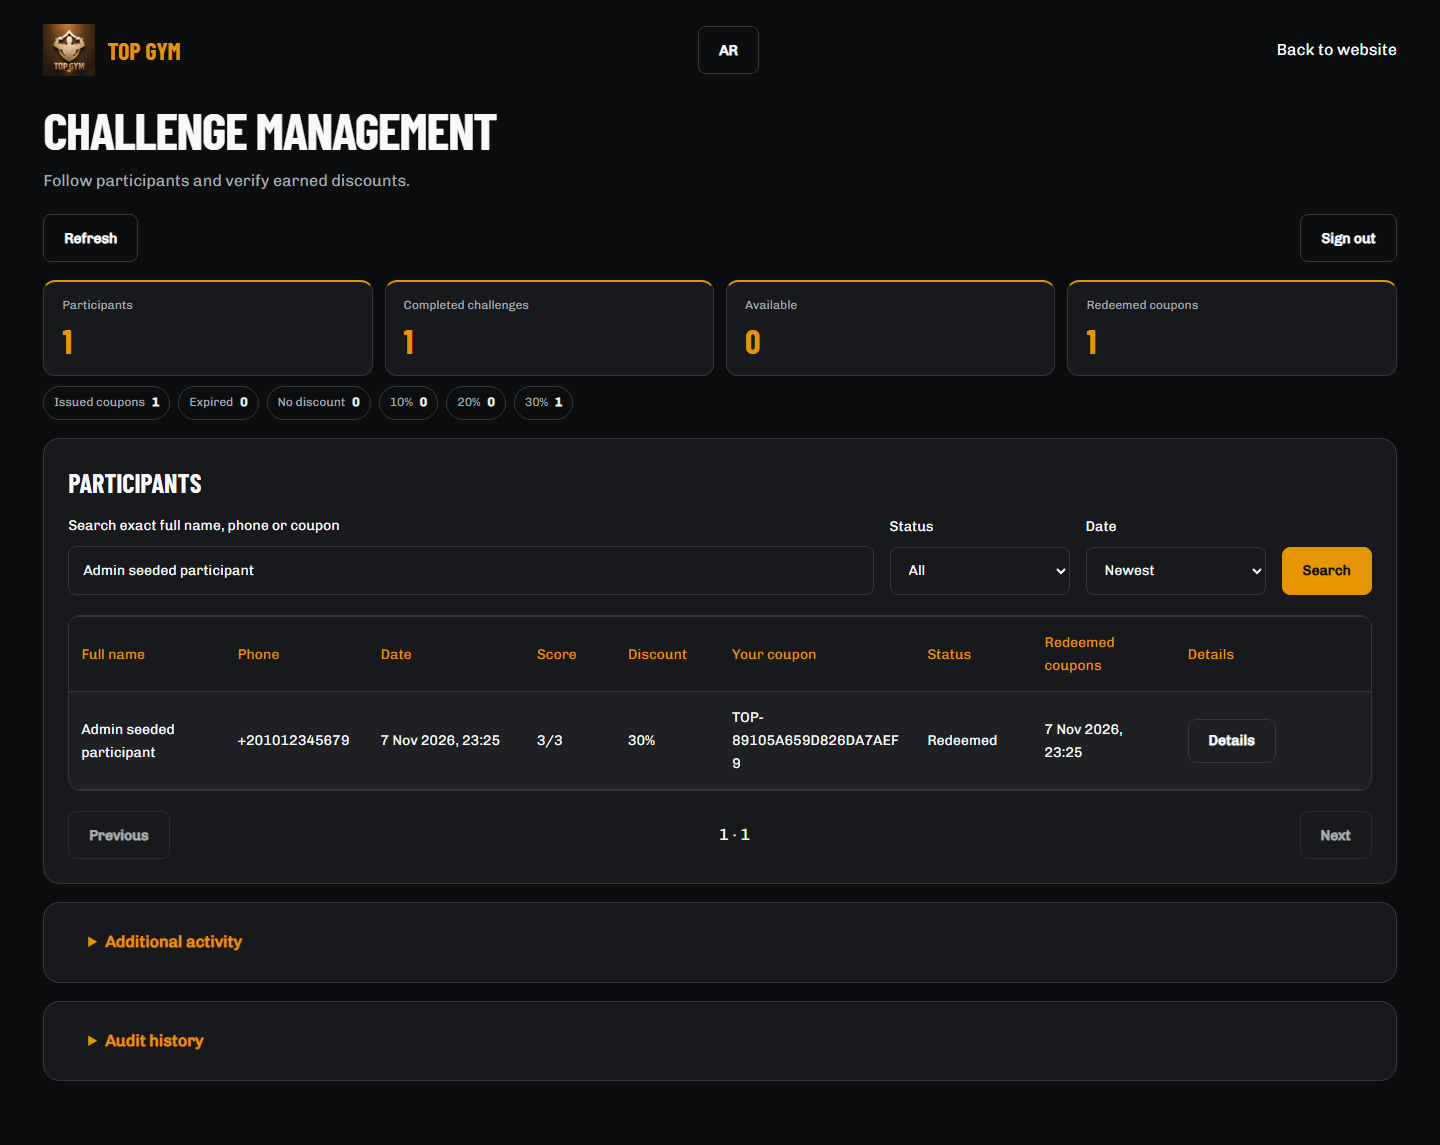
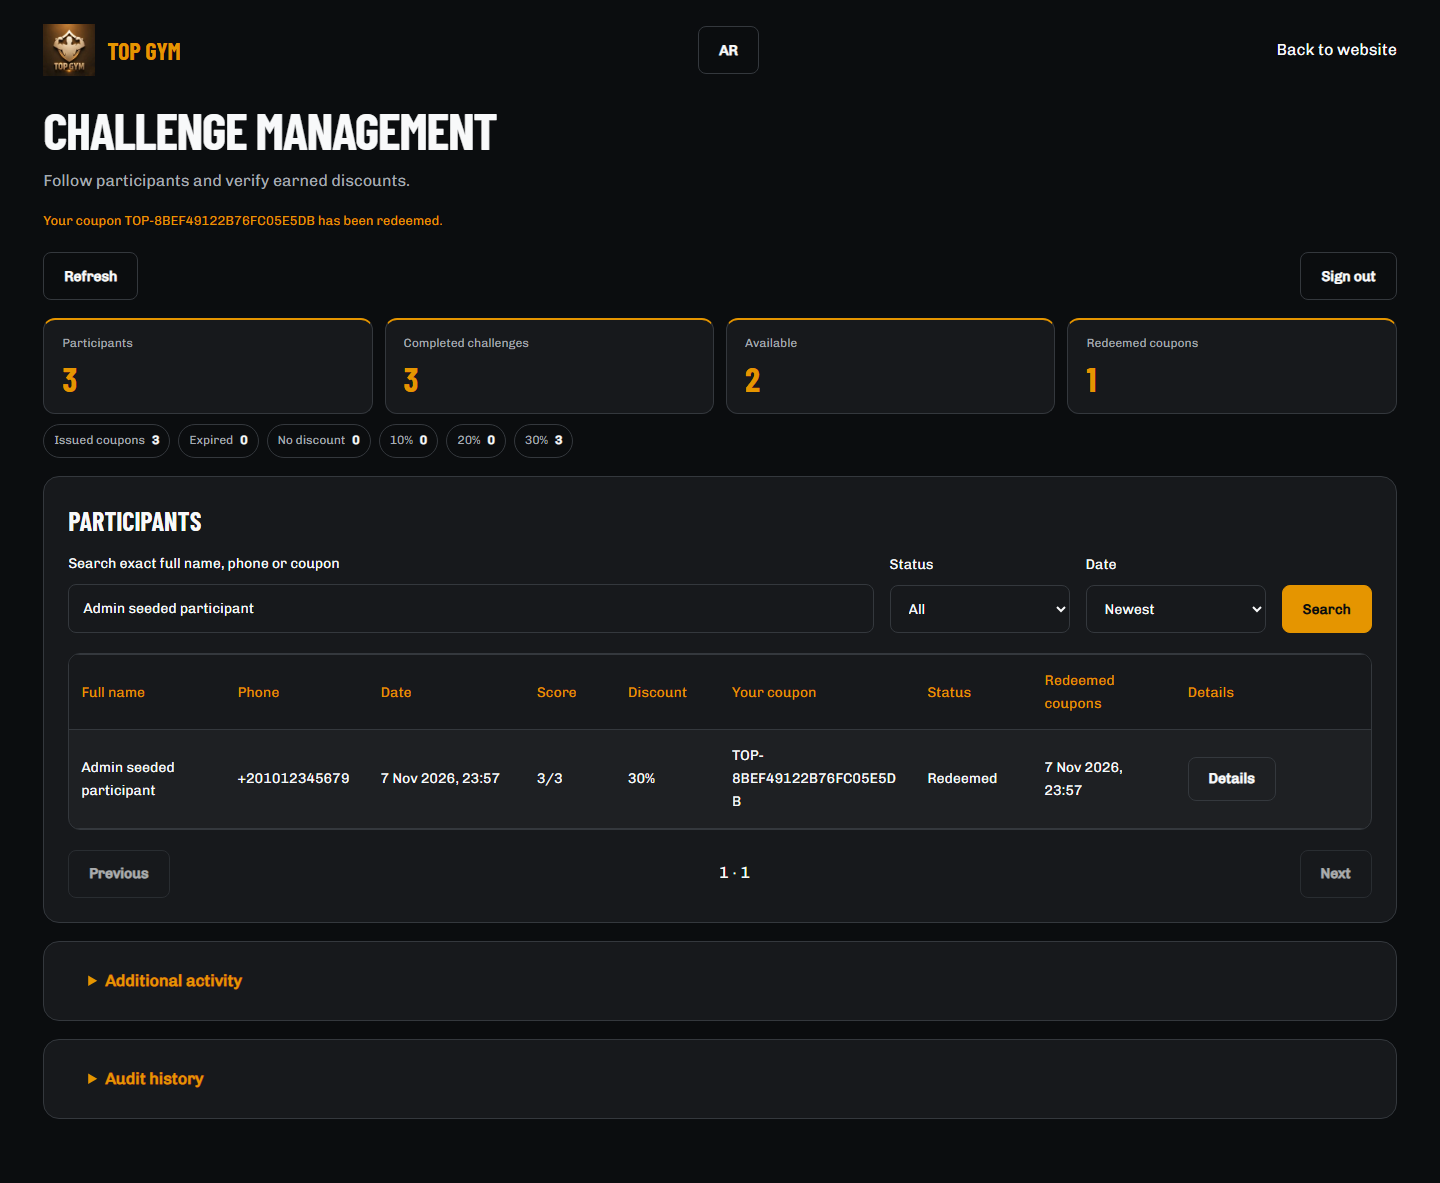
feat(challenge): add coupon copy and WhatsApp subscription action

diff --git a/src/scripts/challenge.ts b/src/scripts/challenge.ts
@@ -4,6 +4,8 @@ import { motion } from '../config/motion';
 import { challengeApi, ApiError } from './challenge-api';
 import { challengeAttribution, challengeEvent } from './challenge-attribution';
 import { localizedChallengeTerms } from './challenge-terms';
+import { couponWhatsAppUrl } from './challenge-coupon';
+import { business } from '../config/business';
 
 type Localized = { ar: string; en: string };
 interface State {
@@ -49,6 +51,8 @@ export function initChallenge() {
     lastQuestion = '',
     revision = 0,
     recoverQueued = false;
+  let participantName = '',
+    participantPhone = '';
   let finishCount = () => {};
   const registrationKey = crypto.randomUUID();
   // Keep only a random retry secret. Phone/name are never placed in web storage.
@@ -161,6 +165,7 @@ export function initChallenge() {
           { phone: p.value },
           { 'Idempotency-Key': enrollmentKey },
         );
+        participantPhone = p.value.trim();
         render(state);
       });
     });
@@ -304,6 +309,7 @@ export function initChallenge() {
       form.addEventListener('submit', (e) => {
         e.preventDefault();
         void run(async () => {
+          participantName = name.value.trim();
           render(
             await challengeApi<State>(
               'challenge/finalize',
@@ -324,21 +330,50 @@ export function initChallenge() {
         const card = el('div', undefined, 'challenge-coupon');
         const code = el('code', s.coupon.code);
         code.dir = 'ltr';
+        const expires = new Intl.DateTimeFormat(locale === 'ar' ? 'ar-EG' : 'en-GB', {
+          dateStyle: 'medium',
+          timeZone: 'Africa/Cairo',
+        }).format(s.coupon.expiresAt);
         card.append(
           el('span', c.coupon),
           code,
           el('p', c.statuses[s.coupon.state]),
-          el(
-            'p',
-            c.expires +
-              ' ' +
-              new Intl.DateTimeFormat(locale === 'ar' ? 'ar-EG' : 'en-GB', {
-                dateStyle: 'medium',
-                timeZone: 'Africa/Cairo',
-              }).format(s.coupon.expiresAt),
-          ),
+          el('p', `${c.expires} ${expires}`),
         );
+        const couponActions = el('div', undefined, 'challenge-coupon-actions');
+        const copy = button(
+          c.copyCode,
+          () => {
+            if (!navigator.clipboard?.writeText) {
+              status.textContent = c.copyFailed;
+              return;
+            }
+            void navigator.clipboard
+              .writeText(s.coupon!.code)
+              .then(() => (status.textContent = c.copiedCode))
+              .catch(() => (status.textContent = c.copyFailed));
+          },
+          'challenge-secondary',
+        );
+        copy.classList.add('challenge-coupon-copy');
+        couponActions.append(copy);
+        const contact = business.contacts.find((item) => item.id === 'ahmed')!;
+        const message = c.whatsappCouponMessage({
+          name: participantName || (locale === 'ar' ? 'الاسم' : 'your name'),
+          phone: participantPhone || s.maskedPhone,
+          discount: s.coupon.discount,
+          code: s.coupon.code,
+          expires,
+        });
+        const whatsapp = el('a', c.whatsappSubscribe, 'challenge-primary');
+        whatsapp.classList.add('challenge-coupon-whatsapp');
+        whatsapp.href = couponWhatsAppUrl(contact.phone, message);
+        whatsapp.target = '_blank';
+        whatsapp.rel = 'noopener noreferrer';
+        couponActions.append(whatsapp);
+        card.append(couponActions);
         stage.append(card);
+        void playMotion(whatsapp, 'enter');
       } else stage.append(el('p', c.noCoupon));
       terms(s.terms);
       const link = el('a', c.memberships, 'challenge-secondary');

diff --git a/src/i18n/challenge.ts b/src/i18n/challenge.ts
@@ -80,6 +80,19 @@ export const challengeCopy = {
     save: 'احفظ نتيجتي',
     saved: 'نتيجتك اتسجلت.',
     coupon: 'كوبونك',
+    couponUsed: (code: string) => `كوبونك ${code} تم استخدامه.`,
+    copyCode: 'انسخ الكوبون',
+    copiedCode: 'تم نسخ الكوبون.',
+    copyFailed: 'تعذر النسخ تلقائيًا. اضغط مطولًا على الكود لنسخه.',
+    whatsappSubscribe: 'أرسل طلب الاشتراك على واتساب',
+    whatsappCouponMessage: (details: {
+      name: string;
+      phone: string;
+      discount: number;
+      code: string;
+      expires: string;
+    }) =>
+      `السلام عليكم، أنا ${details.name}، ورقم موبايلي ${details.phone}. أنهيت تحدي TOP GYM وحصلت على خصم ${details.discount}% بالكوبون ${details.code} الصالح حتى ${details.expires}. أرغب في الاشتراك واستخدام الكوبون.`,
     expires: 'صالح حتى',
     noCoupon: 'لا يوجد كوبون لهذه النتيجة.',
     terms: 'شروط الاستخدام',
@@ -241,6 +254,19 @@ export const challengeCopy = {
     save: 'Save my result',
     saved: 'Your result is saved.',
     coupon: 'Your coupon',
+    couponUsed: (code: string) => `Your coupon ${code} has been redeemed.`,
+    copyCode: 'Copy coupon',
+    copiedCode: 'Coupon copied.',
+    copyFailed: 'Could not copy automatically. Press and hold the code to copy it.',
+    whatsappSubscribe: 'Send subscription request on WhatsApp',
+    whatsappCouponMessage: (details: {
+      name: string;
+      phone: string;
+      discount: number;
+      code: string;
+      expires: string;
+    }) =>
+      `Hello, my name is ${details.name} and my phone number is ${details.phone}. I completed the TOP GYM challenge and earned ${details.discount}% off with coupon ${details.code}, valid until ${details.expires}. I would like to subscribe and use the coupon.`,
     expires: 'Valid until',
     noCoupon: 'No coupon was issued for this result.',
     terms: 'Redemption terms',

diff --git a/tests/challenge-browser/challenge.spec.ts b/tests/challenge-browser/challenge.spec.ts
@@ -116,6 +116,28 @@ for (const [index, locale] of ['ar', 'en'].entries())
     await modal.locator('button[type=submit]').click();
     await expect(modal.locator('.challenge-coupon code')).toHaveText(/^TOP-[A-F0-9]{20}$/);
     const coupon = await modal.locator('.challenge-coupon code').innerText();
+    await expect(modal.locator('.challenge-coupon p').nth(1)).toContainText(
+      locale === 'ar' ? 'صالح حتى' : 'Valid until',
+    );
+    const whatsappUrl = new URL(
+      (await modal.locator('.challenge-coupon-whatsapp').getAttribute('href'))!,
+    );
+    expect(whatsappUrl.origin + whatsappUrl.pathname).toBe('https://wa.me/201015819700');
+    expect(whatsappUrl.searchParams.get('text')).toContain(coupon);
+    expect(whatsappUrl.searchParams.get('text')).toContain(
+      locale === 'ar' ? '01012345670' : '01012345671',
+    );
+    expect(whatsappUrl.searchParams.get('text')).toContain(
+      locale === 'ar' ? 'اختبار محلي' : 'Local test participant',
+    );
+    await page.context().grantPermissions(['clipboard-read', 'clipboard-write']);
+    await modal
+      .getByRole('button', { name: locale === 'ar' ? 'انسخ الكوبون' : 'Copy coupon' })
+      .click();
+    await expect(modal.locator('[data-challenge-status]')).toHaveText(
+      locale === 'ar' ? 'تم نسخ الكوبون.' : 'Coupon copied.',
+    );
+    expect(await page.evaluate(() => navigator.clipboard.readText())).toBe(coupon);
     await modal.screenshot({ path: `${evidence}/result-${locale}.png` });
     await page.reload();
     await page.locator('[data-challenge-open]').click();

diff --git a/src/styles/challenge.css b/src/styles/challenge.css
@@ -371,6 +371,42 @@ html[dir='rtl'] .challenge-dialog .challenge-title {
   overflow-wrap: anywhere;
   user-select: all;
 }
+.challenge-coupon-actions {
+  display: flex;
+  flex-wrap: wrap;
+  justify-content: center;
+  gap: 10px;
+}
+.challenge-coupon-actions > a,
+.challenge-coupon-actions > button {
+  display: inline-flex;
+  align-items: center;
+  justify-content: center;
+  min-height: 42px;
+  max-width: 100%;
+  padding: 10px 14px;
+  text-align: center;
+  text-decoration: none;
+}
+.challenge-coupon-whatsapp {
+  transition:
+    box-shadow var(--motion-micro, 200ms) var(--motion-ease, ease),
+    background-color var(--motion-micro, 200ms) var(--motion-ease, ease);
+}
+.challenge-coupon-whatsapp:hover {
+  box-shadow: 0 6px 20px #e5950033;
+}
+.challenge-coupon-whatsapp:focus-visible,
+.challenge-coupon-copy:focus-visible {
+  outline: 2px solid var(--color-gold);
+  outline-offset: 3px;
+}
+@media (max-width: 480px) {
+  .challenge-coupon-actions {
+    display: grid;
+    grid-template-columns: 1fr;
+  }
+}
 .challenge-confetti {
   position: absolute;
   inset: 0;

diff --git a/src/scripts/challenge-admin.ts b/src/scripts/challenge-admin.ts
@@ -75,11 +75,11 @@ export async function initAdmin() {
       'X-CSRF-Token': csrf,
       ...(key ? { 'Idempotency-Key': key } : {}),
     });
-  const task = async (fn: () => Promise<void>) => {
+  const task = async (fn: () => Promise<void>, successMessage = '') => {
     status.textContent = c.loading;
     try {
       await fn();
-      status.textContent = '';
+      status.textContent = successMessage;
     } catch (e) {
       status.textContent = e instanceof ApiError ? challengeError(e.code, locale) : c.connection;
       if (e instanceof ApiError && e.status === 401) login();
@@ -425,7 +425,7 @@ export async function initAdmin() {
               );
               renderMetrics(await getSummary());
               await list();
-            }).finally(() => {
+            }, c.couponUsed(coupon.code)).finally(() => {
               redeem.disabled = !check.checked;
             });
           },

diff --git a/tests/unit/challenge-coupon.test.ts b/tests/unit/challenge-coupon.test.ts
@@ -1,0 +1,17 @@
+import { describe, expect, it } from 'vitest';
+import { couponWhatsAppUrl } from '../../src/scripts/challenge-coupon';
+
+describe('coupon WhatsApp action', () => {
+  it('opens the verified gym contact with a safely encoded personalized message', () => {
+    const url = new URL(
+      couponWhatsAppUrl(
+        '+20 10 1581 9700',
+        'الاسم أحمد، الهاتف 01015819700، خصم 30%، كوبون TOP-ABC',
+      ),
+    );
+    expect(url.origin + url.pathname).toBe('https://wa.me/201015819700');
+    expect(url.searchParams.get('text')).toContain('الاسم أحمد');
+    expect(url.searchParams.get('text')).toContain('خصم 30%');
+    expect(url.searchParams.get('text')).toContain('TOP-ABC');
+  });
+});

diff --git a/src/scripts/challenge-coupon.ts b/src/scripts/challenge-coupon.ts
@@ -1,0 +1,4 @@
+export function couponWhatsAppUrl(phone: string, message: string) {
+  const digits = phone.replace(/\D/g, '');
+  return `https://wa.me/${digits}?text=${encodeURIComponent(message)}`;
+}

diff --git a/docs/PROGRESS.md b/docs/PROGRESS.md
@@ -227,3 +227,11 @@ Review: [Arabic footer desktop](evidence/footer-after-ar-1440.webp), [Arabic foo
 Gate 1 final local verification: 45 backend + 58 website/BFF unit tests, 117 existing browser cases and 15 challenge cases passed. Both builds/types/lint/format/SEO passed. Local 4? CPU flow CLS was 0; measurements and screenshot limits are recorded in `CHALLENGE_QA.md`. No remote push, staging deployment or production mutation was performed.
 
 7 November publication follow-up: authenticated Vercel Preview inspection found the native catch-all filename built but returned platform 404. Replaced it with a fixed function plus explicit rewrite and canonical route validation; added rewrite/signature/ambiguity tests. Production merge waits for new preview and required checks.
+
+## Coupon activation and winner follow-up — 2026-11-07
+
+- Reduced the coupon activation button dimensions, corrected its foreground/background contrast, and added a localized post-redemption confirmation containing the coupon code. If the API's Arabic terms are corrupted, the frontend uses the exact Arabic translation of the current English terms rather than displaying question marks.
+- On successful challenge registration with an eligible coupon, the result now shows the Cairo-timezone expiry date, a copy-to-clipboard button with an accessible status message, and a WhatsApp subscription-request link to the configured Ahmed contact (+201015819700). The user-initiated message includes the participant name, entered phone, discount percentage, coupon code and expiry. It is localized and URL-encoded; the link does not send anything until clicked.
+- The WhatsApp action enters using the shared motion primitive, has restrained brand hover/focus styling and respects reduced-motion. Zero-score results still have no coupon, copy action or coupon WhatsApp message.
+- Validation: typecheck and lint pass; 66 unit tests pass; challenge preview build passes; 3 focused Chromium tests pass, including Arabic/English result screens, expiry display, copy confirmation and personalized WhatsApp link. Updated result captures: `docs/evidence/challenge/result-ar.png` and `docs/evidence/challenge/result-en.png`.
+- Limitation: production challenge API currently returns literal question marks for Arabic terms. The website now has a safe display fallback, but correcting the API's stored policy still requires access to the private backend configuration. No backend secrets or production coupon records were changed.
